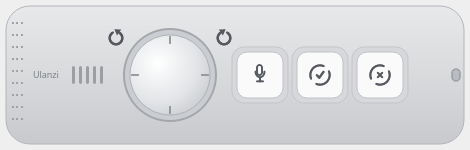
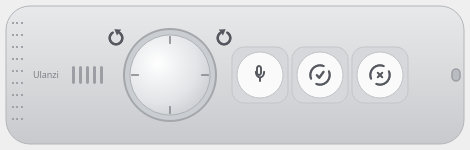
prototype: mic glyph per mic_cap_zoom (capsule+U+tail, no foot); round caps on square plates

diff --git a/prototype_panel_picker.py b/prototype_panel_picker.py
@@ -217,8 +217,8 @@ class KeypadWidget(QFrame):
     """Drawn to match the real AU05 (ulanzi.com product photos): aluminium
     bar; speaker mesh + Ulanzi logo + five mic slots at the far end;
     aluminium knob with recessed ring groove (LED ring lives there) and grip
-    notches; three square white keycaps (mic / accept-slash / cancel-cross,
-    each a central glyph between two open arcs); strap hole at the edge.
+    notches; three round white keycaps on square plates (mic / accept /
+    cancel, glyph rules per draw_* functions); strap hole at the edge.
     Interactive zones are transparent SimButtons positioned over the art."""
 
     W, H = 470, 150
@@ -288,12 +288,12 @@ class KeypadWidget(QFrame):
             x1, y1 = 170 + 32 * math.cos(math.radians(ang)), 75 - 32 * math.sin(math.radians(ang))
             x2, y2 = 170 + 38 * math.cos(math.radians(ang)), 75 - 38 * math.sin(math.radians(ang))
             p.drawLine(QPointF(x1, y1), QPointF(x2, y2))
-        # three square white keycaps in square housings
+        # square plates with round white caps, per the close-up photos
         for cx in (260, 320, 380):
             p.setPen(QColor("#c3c5c9")); p.setBrush(QColor("#d6d8db"))
             p.drawRoundedRect(cx - 28, 75 - 28, 56, 56, 12, 12)
             p.setPen(QColor("#c0c2c6")); p.setBrush(QColor("#fafafa"))
-            p.drawRoundedRect(cx - 23, 75 - 23, 46, 46, 10, 10)
+            p.drawEllipse(cx - 23, 75 - 23, 46, 46)
         # strap hole at the far (right) edge
         p.setPen(QPen(QColor("#9c9ea3"), 1.5)); p.setBrush(QColor("#b9bcc0"))
         p.drawRoundedRect(self.W - 18, 75 - 6, 8, 12, 4, 4)
@@ -575,15 +575,15 @@ def _arcs(p, s, color, r=10.4, rot=0.0):
 
 
 def draw_mic(p, s, color):
-    """mic cap: plain mic glyph, no arcs — tall capsule, deep narrow yoke."""
+    """mic cap: exactly the AU05 engraving — capsule, shallow U yoke, short
+    tail; NO base line."""
     k = s / 28.0
     p.setPen(_pen(color, 2.1 * k)); p.setBrush(Qt.NoBrush)
-    p.drawRoundedRect(11.3 * k, 3.6 * k, 5.4 * k, 10.8 * k, 2.7 * k, 2.7 * k)
-    path = QPainterPath(); path.moveTo(9.2 * k, 10.4 * k)
-    path.cubicTo(9.2 * k, 18.4 * k, 18.8 * k, 18.4 * k, 18.8 * k, 10.4 * k)
+    p.drawRoundedRect(11.6 * k, 4.6 * k, 4.8 * k, 9.8 * k, 2.4 * k, 2.4 * k)
+    path = QPainterPath(); path.moveTo(9.6 * k, 10.6 * k)
+    path.cubicTo(9.6 * k, 18.6 * k, 18.4 * k, 18.6 * k, 18.4 * k, 10.6 * k)
     p.drawPath(path)
-    p.drawLine(QPointF(14 * k, 16.9 * k), QPointF(14 * k, 20.8 * k))
-    p.drawLine(QPointF(10.8 * k, 20.8 * k), QPointF(17.2 * k, 20.8 * k))
+    p.drawLine(QPointF(14 * k, 16.8 * k), QPointF(14 * k, 20.4 * k))
 
 
 def draw_check(p, s, color):
